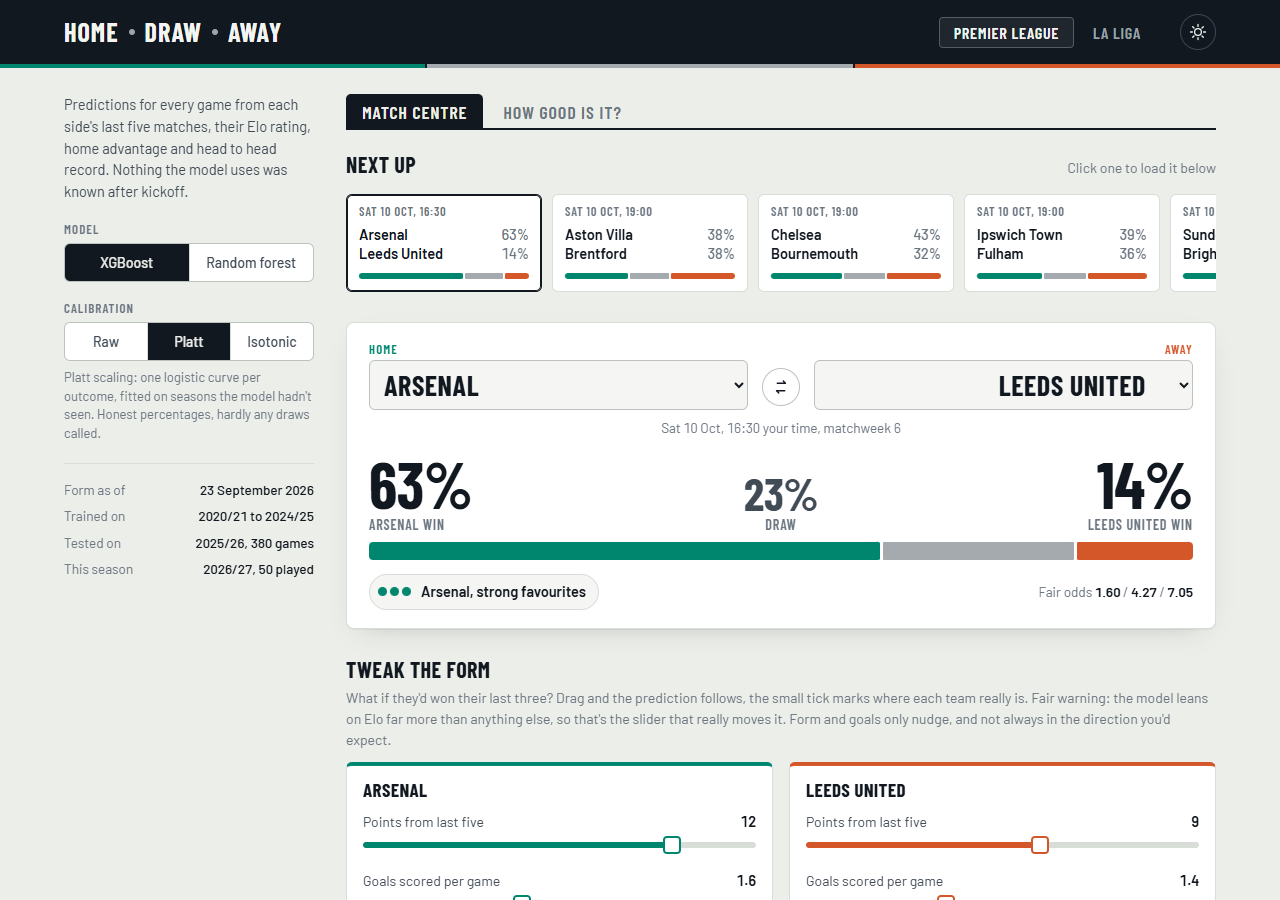
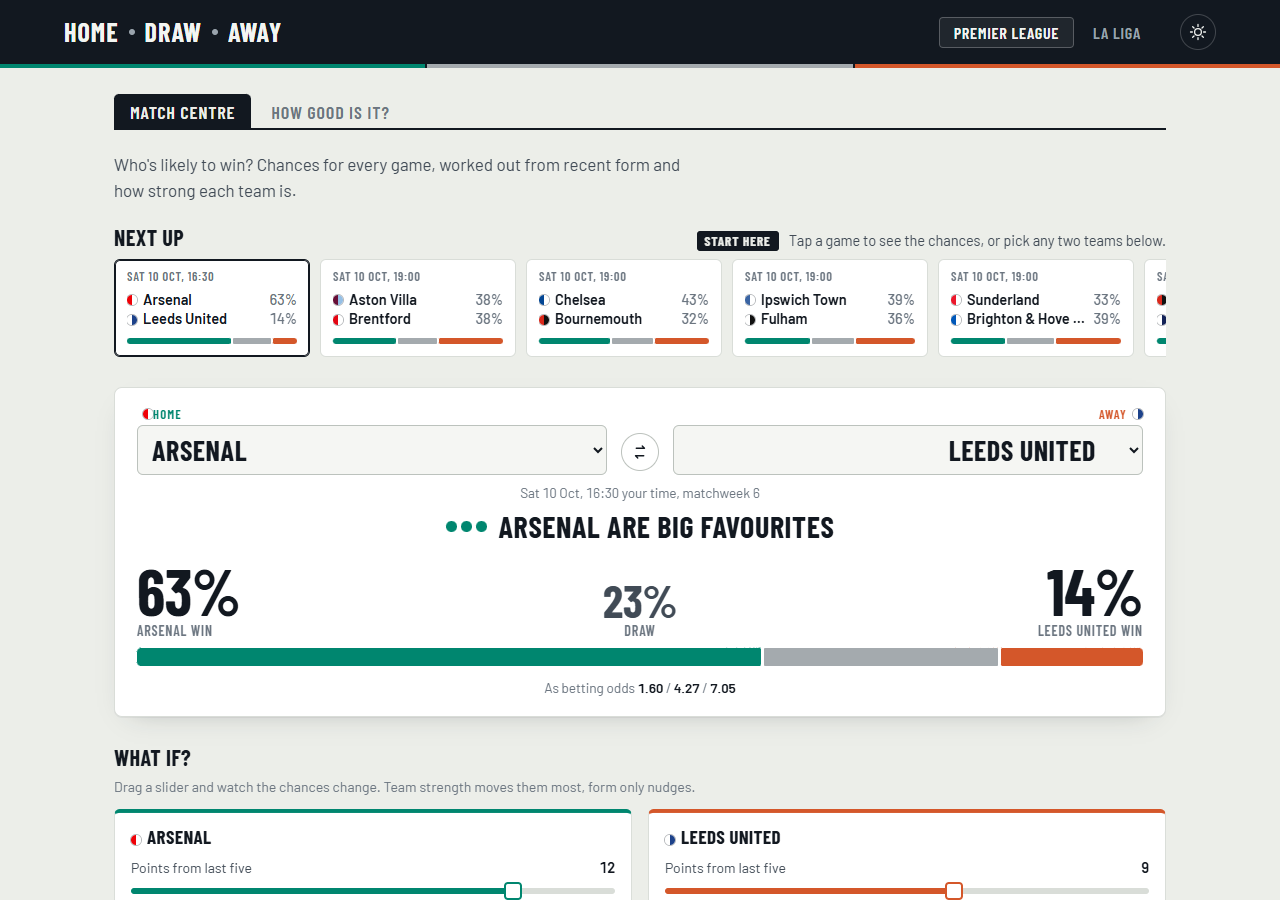
Start the README with what the site does and how to use it
The technical write-up stays, it just comes after a few plain lines.
Screenshots retaken with the new layout.

diff --git a/README.md b/README.md
@@ -1,10 +1,21 @@
 # match-outcome-predictor
 
-Home win, draw or away win? This predicts Premier League and La Liga results from each team's recent form, their Elo rating, home advantage and head to head record, using nothing the model couldn't have known before kickoff.
-
-The site (Home, Draw, Away) shows the next round of fixtures with probabilities, lets you set up any matchup and drag each side's form, goals, possession or Elo to see the prediction move, and has a page that's honest about how good the whole thing actually is. Short answer: decent, and the bookmakers are better.
+Home win, draw or away win? **Home, Draw, Away** gives the chances for every upcoming Premier League and La Liga game, based on each team's recent form and how strong they are.
 
 ![Match centre, light theme](docs/screenshot-match.png)
+
+## Using it
+
+1. Pick a league at the top, then tap one of the games under **Next up**. Or choose any two teams yourself.
+2. The big line tells you who's favourite, and the bar shows the chances of a home win, a draw and an away win.
+3. Drag the sliders under **What if?** to see how the chances move when a team's form or strength changes.
+4. **How good is it?** shows how often it calls results right (about half the time, a bit behind the bookies) and every game it has called this season.
+
+The model settings and the technical charts are folded away under **For the stats nerds** on that tab. The rest of this README is about how it's built.
+
+## How it's built
+
+Every prediction comes from each team's recent form, their Elo rating, home advantage and head to head record, using nothing the model couldn't have known before kickoff. Short answer on how good it is: decent, and the bookmakers are better.
 
 ## The two things that matter
 
@@ -38,7 +49,7 @@ Trained on 2020/21 to 2024/25, tested on all 380 games of 2025/26, which the mod
 
 XGBoost with Platt calibration calls 48% of Premier League games and 52% of La Liga games right, against 49% and 54% for the bookmakers. Beating the market was never going to happen with free data, but it's comfortably ahead of the naive baseline and the probabilities are well calibrated (there's a reliability chart on the site).
 
-![Model report, dark theme](docs/screenshot-report.png)
+![The stats nerds section, dark theme](docs/screenshot-report.png)
 
 ## Things I found
 
